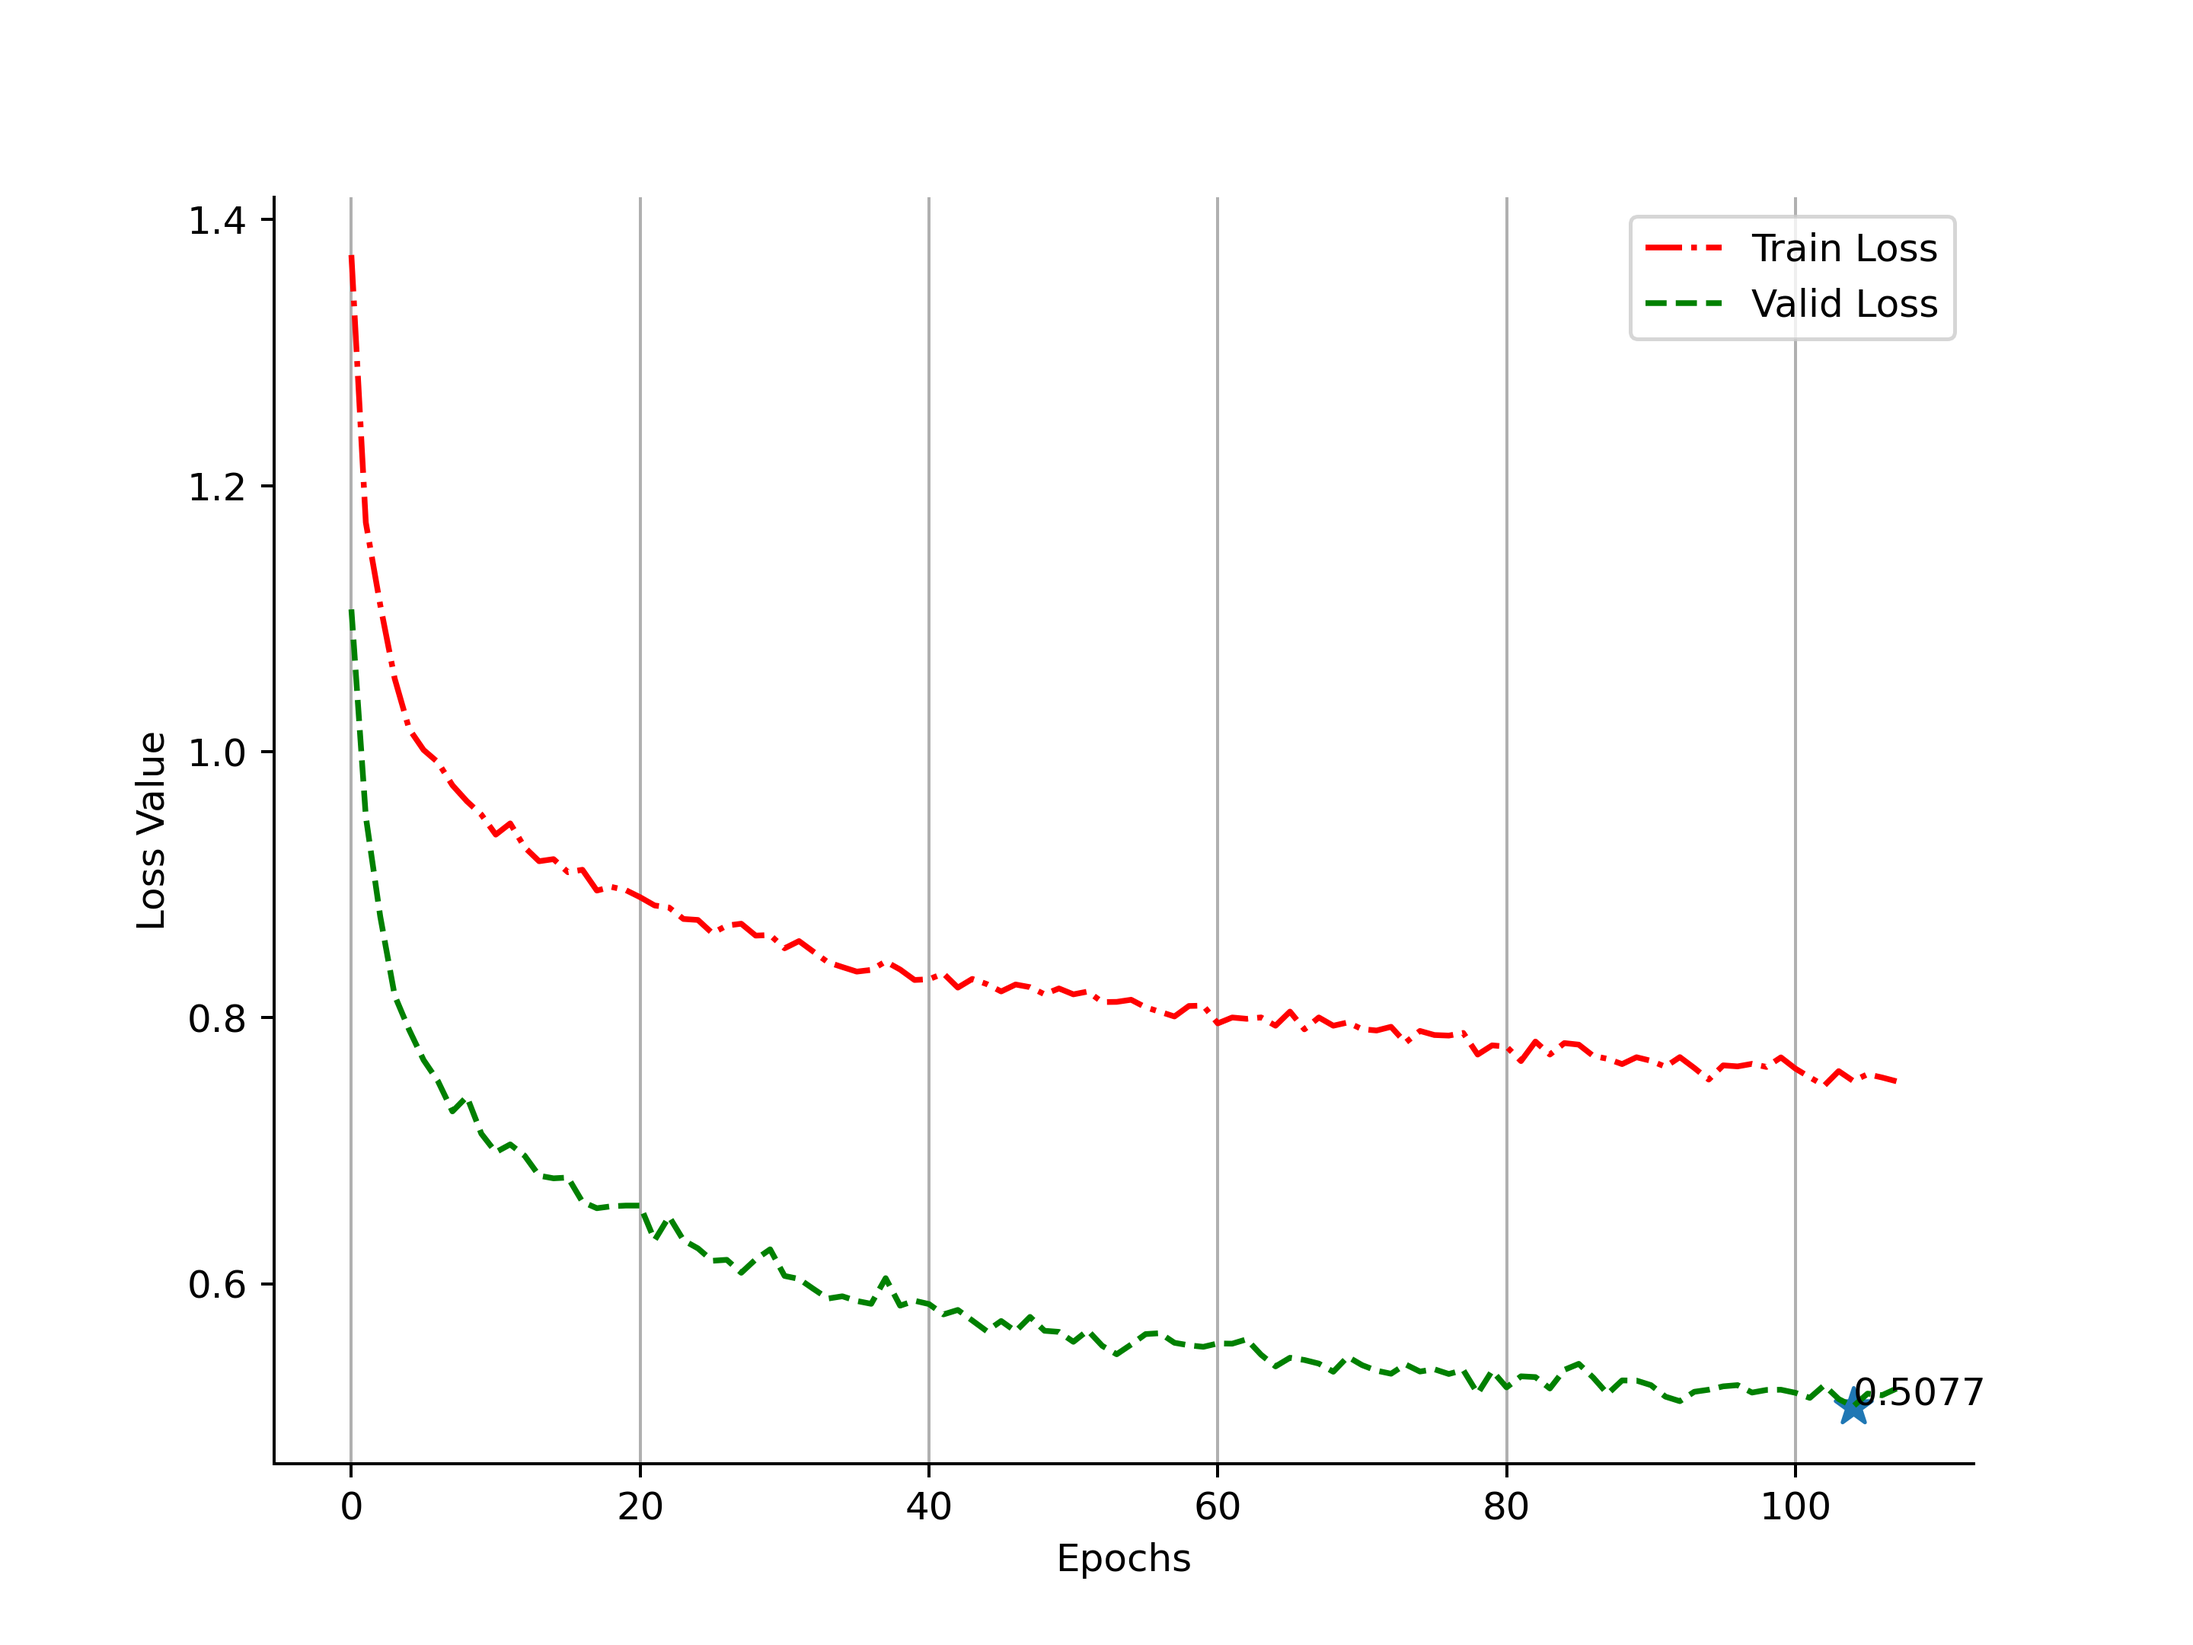
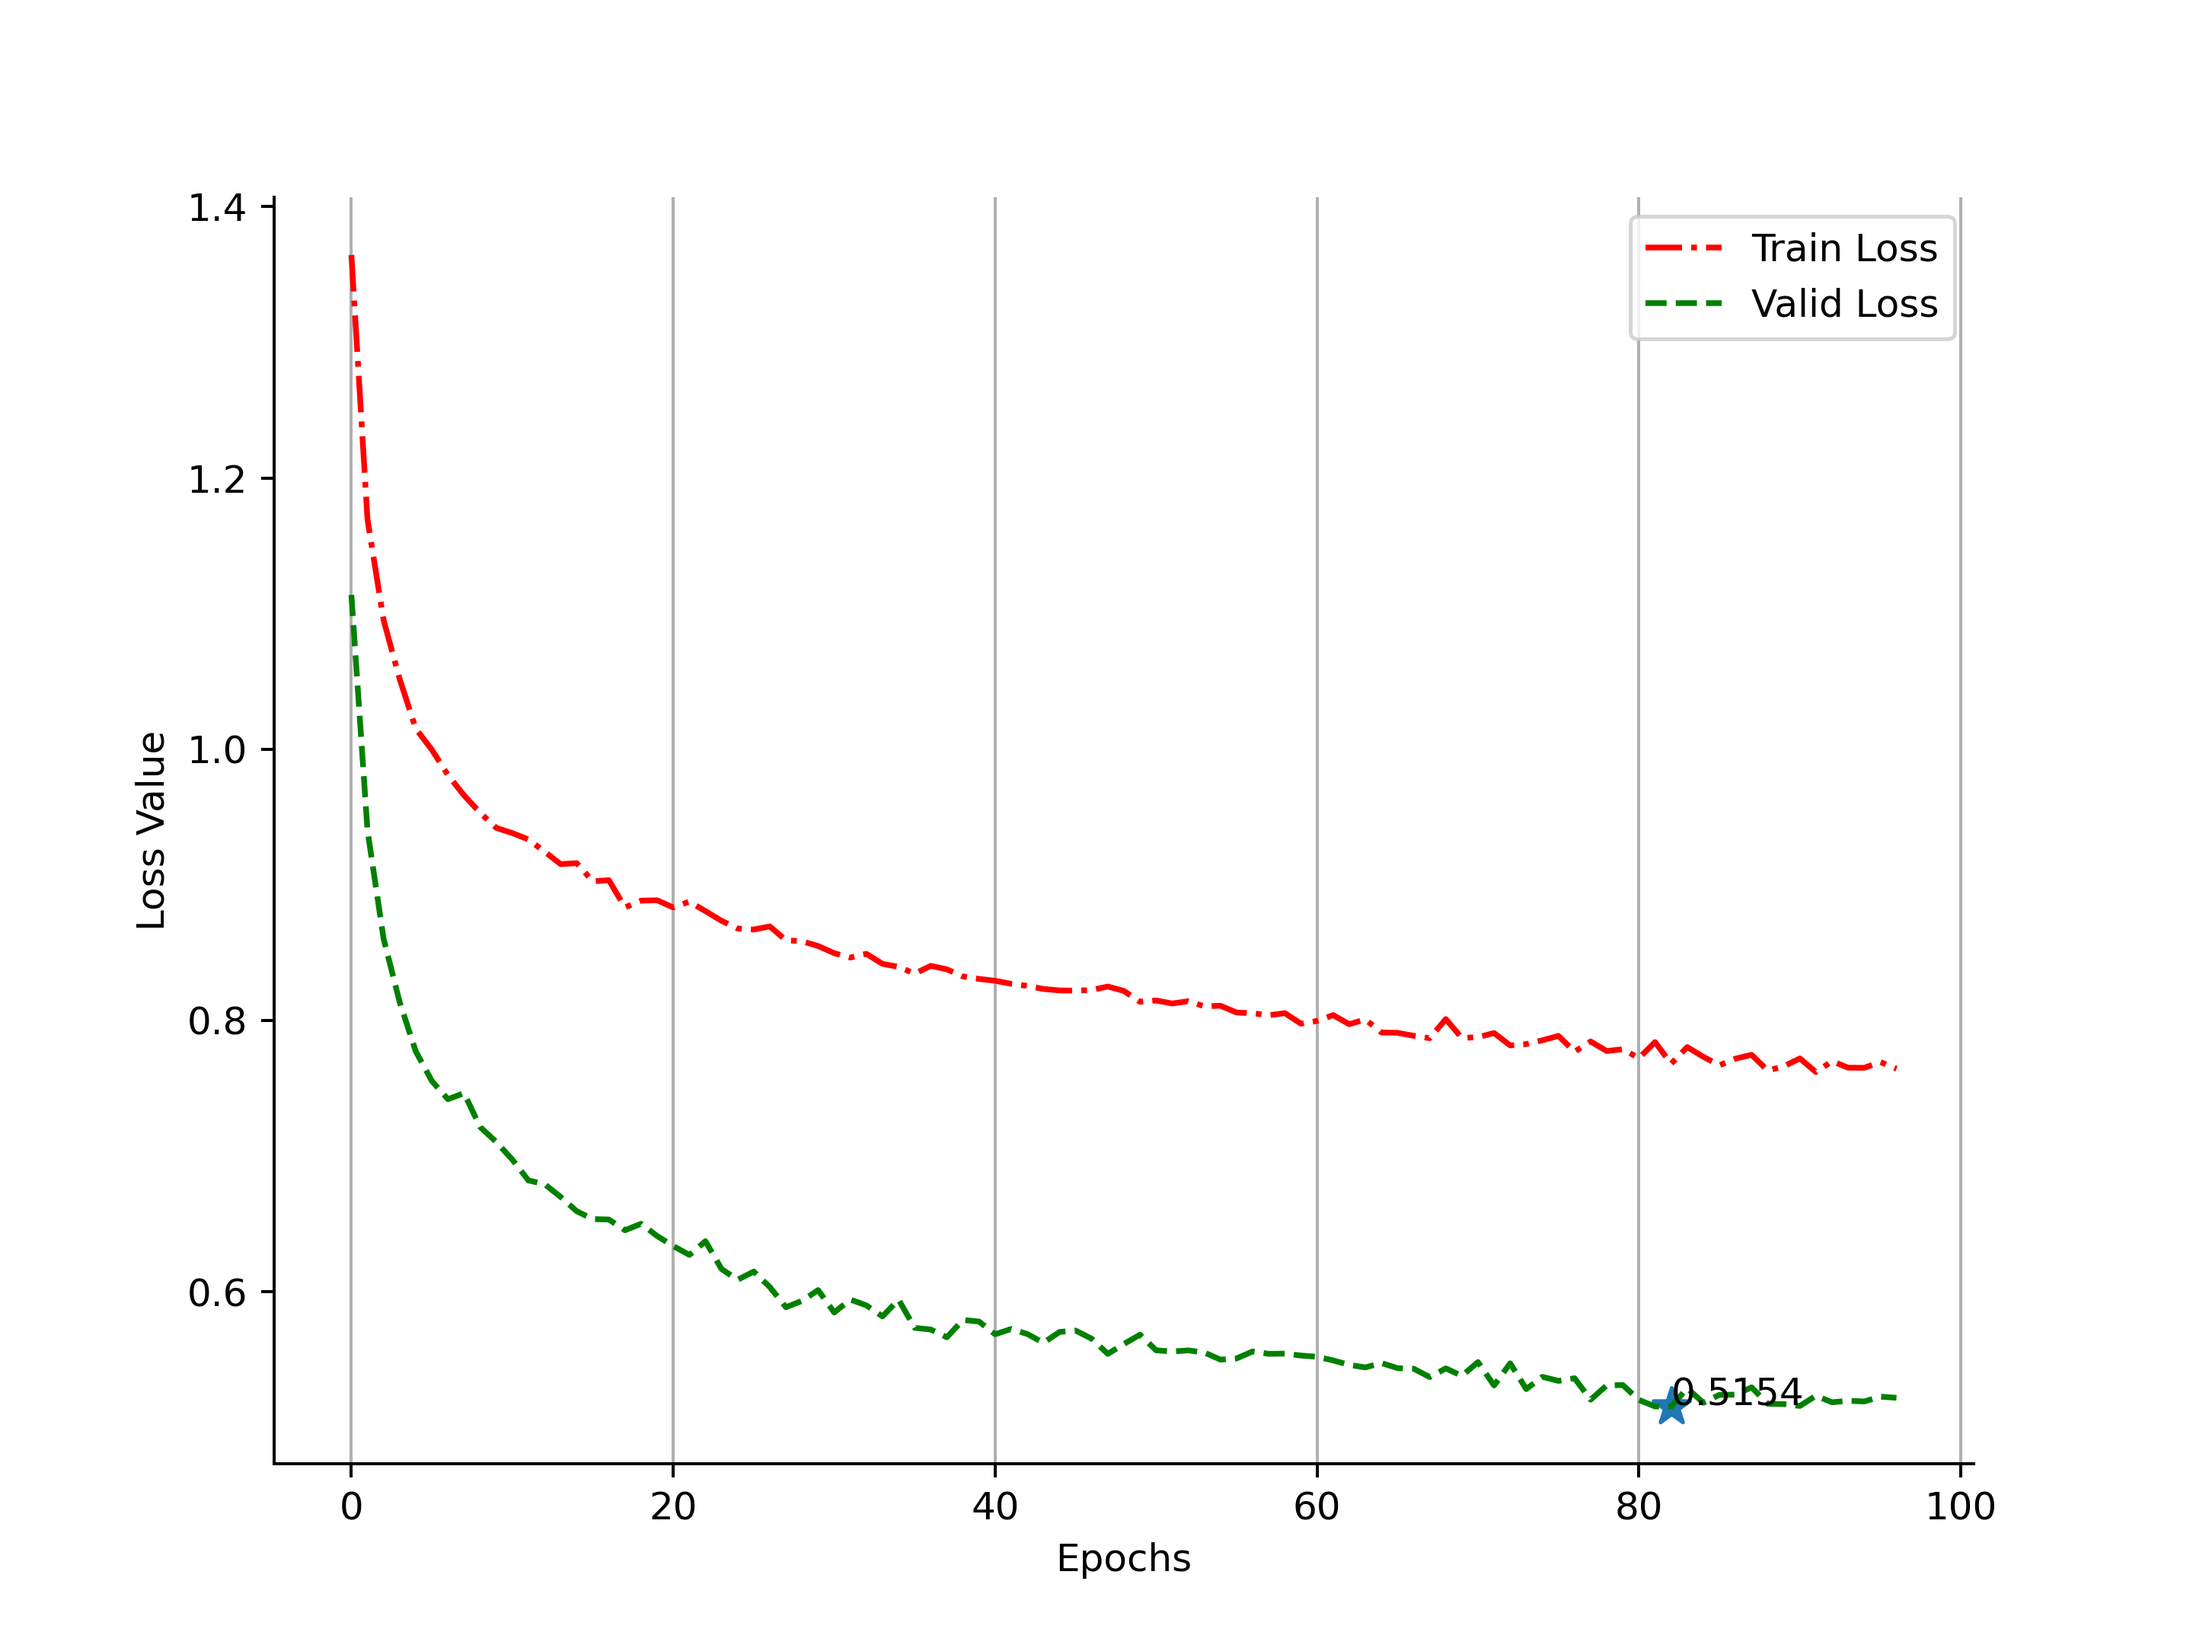
modified:   Figure/resunet-tuned_loss.png 	modified:   README.md

diff --git a/utils/argparse.py b/utils/argparse.py
@@ -1,5 +1,4 @@
 import argparse
-from typing import Literal
 
 def train_args():
     parser = argparse.ArgumentParser()

diff --git a/deploy.py b/deploy.py
@@ -1,0 +1,2 @@
+import torch
+import torch.nn as nn

diff --git a/README.md b/README.md
@@ -82,3 +82,30 @@ Train loss: 0.7051744216158311, Valid loss: 0.6608525890371074, mIoU: 0.46186411
 4. 单独引入权重会导致不同的batch之间loss波动较大，应该是部分罕见样本仅存在部分batch_size导致的，解决方式要么增大batch_size，要么加入自定义的权重样本采样。由于显存限制，采用了后者。
 5. 引入采样器后，理论的训练轮次应该有所增加；
 6. 训练结果来看，小物体（小样本）的iou有较大上升，但是整体的miou上升有限
+
+#### ResUnet-pretrained(decoder attention)
+直接将resnet34的预训练权重加载后作为Resunet的encoder部分
+
+```shell
+Resunet-pretrained (attention):
+best epoch 72
+Class_iou: 
+[0.8151819705963135, 0.5929291248321533, 0.2145272046327591, 0.6957395076751709, 0.2712303102016449, 
+0.5805100798606873, 0.7625992894172668, 0.7045577168464661, 0.7662131786346436, 0.20453806221485138, 
+0.5660848617553711, 0.4187239110469818, 0.6705337762832642, 0.5470290184020996, 0.5524162650108337, 
+0.6369372010231018, 0.3111366033554077, 0.567618191242218, 0.2927168011665344, 0.650867760181427, 
+0.47811880707740784]
+Train loss: 0.7720043665512811, Valid loss: 0.5157881217158359, mIoU: 0.5381051898002625
+```
+1. 从结果上来看，含有预训练的模型要远远由于上面的模型，训练轮次也低于前面的模型；
+2. 从训练过程中看，具备预训练权重的模型在早期就具备了一定的分割能力，这得益于resnet34本身在ImageNet上具备的边缘检测能力。此外一些小物体，在第一个轮次时模型就已经捕捉到了一点特征，不像上面探索过的模型为0；
+3. 为了契合resnet_weight34，在数据增强时选择使用ImageNet的魔法标准化参数；
+4. 训练中encoder和decoder使用了不同的学习率，这只是粗浅的做法，如果要进一步优化可以将encoder不同的layer层以及头部conv层给予不同的学习率，层数约靠前给予的学习率应该越小，因为resnet在当前任务中提取特征的能力是可以通用的；
+5. attention最后的输出层经过的是sigmoid，sigmoid将注意力导向0、1两个方向，这仅仅给予了模型区分前景与背景的能力，直观上来说对于模型捕获细小物体的能力会有帮助。
+6. 由于使用了Resnet34直接作为encoder层，其中的输入原始通道3就已经是固定结果无法更改了，如果需要更改则应该在resnet34_encoder层前添加一个n_channel->3的卷积层。
+
+总结一下：从原版unet->resnet_unet->resnet_attention_unet->resnet(pretrained)-attention_unet，miou逐级提升，提升最明显的就是引入resnet和引入resnet预训练权重。
+
+神经网络当前个人理解为：根据先验知识，在已知的潜在空间中，通过一定的约束条件获得满足条件的解（集）。再从头来看，encoder由原版换成resnet，提升了获取先验知识的能力，attention将约束条件进一步收束，而预训练权重则是将可迁移的先验知识和潜空间搬运过来极大加快了模型的预测（推理）能力。
+
+### 关于部署
